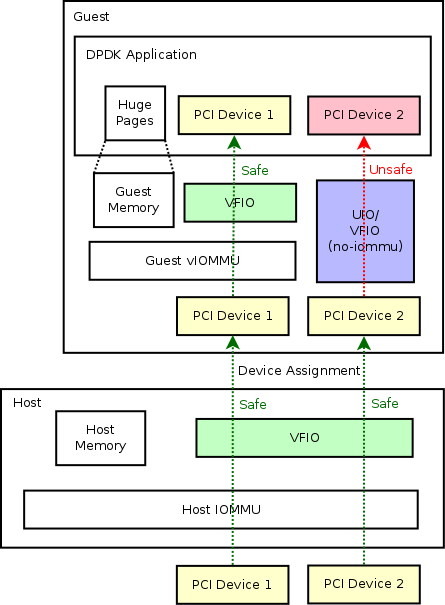
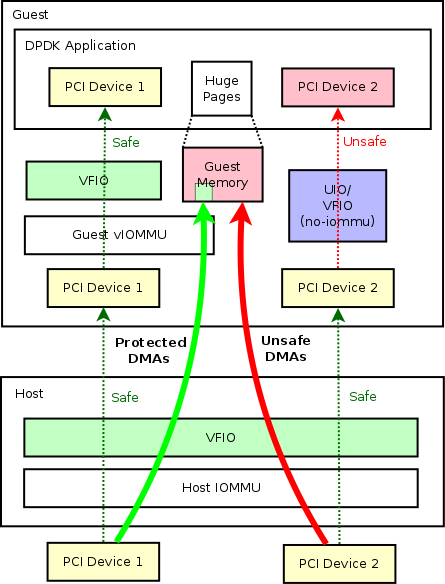
update vfio device assignment docs

diff --git a/vfio-device-assignment/vfio-device-assignment-with-iommu.html b/vfio-device-assignment/vfio-device-assignment-with-iommu.html
@@ -7,7 +7,7 @@ lang="en" xml:lang="en">
 <title>QEMU Device Assignment with vIOMMU Protection</title>
 <meta http-equiv="Content-Type" content="text/html;charset=iso-8859-1"/>
 <meta name="generator" content="Org-mode"/>
-<meta name="generated" content="2017-03-02 13:02:36 CST"/>
+<meta name="generated" content="2017-12-07 13:57:31 CST"/>
 <meta name="author" content="Peter Xu"/>
 <meta name="description" content=""/>
 <meta name="keywords" content=""/>
@@ -109,6 +109,13 @@ lang="en" xml:lang="en">
 <p>
 This page describes use cases for device assignment with vIOMMU.
 </p>
+<p>
+This page will mostly talk about DMA protections that IOMMU/vIOMMU
+provides. Besides that, IOMMU can provide further protections like
+Interrupt Remapping (IR) in a similar way that DMA protections are
+done. A well protected system will not only need DMA but also IRQ
+protections.
+</p>
 </div>
 
 </div>
@@ -130,7 +137,7 @@ Below picture shows a basic device assignment use case in QEMU.
 <p>
 Let's consider a generic <b>PCI device</b> above, which is a real hardware
 attached to host system. The host can use generic kernel drivers to
-drivet the device. In that case, all the reads/writes of that device
+drive the device. In that case, all the reads/writes of that device
 will be protected by <b>host IOMMU</b>, which is safe. The <b>protected DMAs</b>
 are shown in <i>green arrow</i>.
 </p>
@@ -180,12 +187,15 @@ vIOMMU to do DMA protections. With that, guest DMAs are safe now.
 </p>
 <p>
 Here, our use case targets at the guests that are using kernel
-drivers. One thing to mention is that, currently this use case will
-possibly have magnificant performance impact on the assigned device,
-due to dynamic allocation of guest IOVA mapping will cause lots of
-work in the hypervisor to sync the shadow page table in the real
-hardware. More work is needed to further reduce the negative impact
-that the protection has brought.
+drivers. One thing to mention is that, currently, this use case can
+have significant performance impact on the assigned device. The
+dynamic allocation of guest IOVA mapping will cause lots of work in
+the hypervisor in order to sync the shadow page table with the real
+hardware. However, in cases where the memory mapping is static, there
+should not have a significant impact on the performance (DPDK is one
+use case, which I'll mention specifically in the next chapter). With
+the general case of dynamic memory mapping, more work is needed to
+further reduce the negative impact that the protection has brought.
 </p>
 </div>
 
@@ -199,12 +209,25 @@ that the protection has brought.
 <p>  
 DPDK (the so-called DataPlan Development Kit) is vastly used in high
 performance scenarios, which moved the kernel space drivers into
-userspace for the sake of even better performance. That introduce a
-problem that since we cannot really trust any userspace application
-program, we cannot trust DPDK applications as well, especially if it
-can directly manipulate the hardware. Here vIOMMU protects not only
-the malicious devices like hardware errors, it also protects guest
-from buggy userspace drivers like DPDK (via VFIO driver in the guest).
+userspace for the sake of even better performance. Normally, the DPDK
+program can run directly inside a bare metal to achieve the best
+performance with specific hardware. Meanwhile, it can also be run
+inside guest to drive either an assigned device from host, or an
+emulated device like virtio ones.
+</p>
+<p>
+For the guest DPDK use case mentioned, host can still continue
+leveraging DPDK to maximum the packet delivery in the virtual
+switches. OVS-DPDK is a good example.
+</p>
+<p>
+Nevertheless, DPDK introduced a problem that since we cannot really
+trust any userspace application program, we cannot trust DPDK
+applications as well, especially if it can have full access to the
+system memory via the hardware and taint the kernel address space.
+Here vIOMMU protects not only the malicious devices like hardware
+errors, it also protects guest from buggy userspace drivers like DPDK
+(via VFIO driver in the guest).
 </p>
 <p>
 Actually there are at least three ways that DPDK applications can
@@ -283,7 +306,7 @@ Nested device assignment looks like:
 </div>
 
 <div id="postamble">
-<p class="date">Date: 2017-03-02 13:02:36 CST</p>
+<p class="date">Date: 2017-12-07 13:57:31 CST</p>
 <p class="author">Author: Peter Xu</p>
 <p class="creator">Org version 7.7 with Emacs version 25</p>
 <a href="http://validator.w3.org/check?uri=referer">Validate XHTML 1.0</a>
